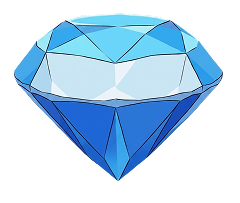
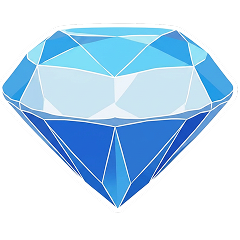
edited section header, and added user stats

Changed region(s): [[0.0, 0.0591, 0.9917, 0.8867], [0.5833, 0.7685, 0.6125, 0.798], [0.4958, 0.3842, 0.525, 0.4138]]

diff --git a/src/components/RightInfoBar/RightInfoBar.jsx b/src/components/RightInfoBar/RightInfoBar.jsx
@@ -2,6 +2,11 @@ import "./RightInfoBar.css";
 import {useEffect, useState} from "react";
 import {getUserInfo} from "../../services/userService.js";
 
+import userAvatar from "../../assets/avatars/default_avatar_male.png";
+import streakIcon from "../../assets/items/fire_streak.png";
+import heartIcon from "../../assets/items/heart.png";
+import diamondIcon from "../../assets/items/diamond.png";
+
 
 
 function RightInfoBar(){
@@ -22,14 +27,27 @@ function RightInfoBar(){
               <div className="user-brief-info-container">
                   {users.map((user) =>(
                       <div key={user.id}>
-                          <div className="test">
+
+                          <div className="user-brief-inner-info-container">
                           <div className="user-brief-profile">
-                          <img src={user.avatar} alt="user_avatar"/>
-                              <p>{user.display_name}</p>
+                          <img src={userAvatar} alt="user_avatar"/>
+                              <p className="body-text-light-sm">{user.display_name}</p>
                           </div>
                           <div className="user-brief-info">
-                              <p>Streak: {user.streak}</p>
-                              <p>Lives: {user.hearts}</p>
+                              <div className="user-stat">
+                                  <img src={streakIcon} alt="" className="user-stat-icon" />
+                                  <span className="body-text-light-sm">{user.streak}</span>
+                              </div>
+
+                              <div className="user-stat">
+                                  <img src={heartIcon} alt="" className="user-stat-icon" />
+                                  <span className="body-text-light-sm">{user.hearts}</span>
+                              </div>
+
+                              <div className="user-stat">
+                                  <img src={diamondIcon} alt="" className="user-stat-icon" />
+                                  <span className="body-text-light-sm">{user.diamonds}</span>
+                              </div>
                           </div>
                       </div>
                       </div>

diff --git a/src/components/RightInfoBar/RightInfoBar.css b/src/components/RightInfoBar/RightInfoBar.css
@@ -1,31 +1,91 @@
+
 .right-info-main{
     background: #131f24;
     height: 100vh;
-    border-left: 2px solid #868686;
 
 }
 
-.user-brief-info{
-    display: flex;
-    justify-content: space-evenly;
-    border: 1px solid red;
+.user-brief-info-container{
+
 }
 
 .user-brief-profile{
     display: flex;
     align-items: center;
+    margin-top: 2.5rem;
+    padding: 8px;
+    border-right: none;
+    border-top: 1px solid #49c0f8;
+    border-bottom: 1px solid #49c0f8;
+    border-left: 1px solid #49c0f8;
+    border-radius: 1rem 0 0 1rem;
+    box-shadow: 0 2px #49c0f8;
 }
+
+
 
 .user-brief-profile p{
     margin-left: 0.8rem;
+    padding: 6px;
+}
+
+.user-brief-profile p:hover{
+    background: #5f6874;
+    border-radius: 0.5rem;
+
+}
+
+.user-brief-info{
+    display: flex;
+    justify-content: center;
+    align-items: center;
+    margin-top: 2.5rem;
+    border-radius: 0 1rem 1rem 0;
+    padding: 0.5rem;
+    border-right: 1px solid #49c0f8;
+    border-top: 1px solid #49c0f8;
+    border-bottom: 1px solid #49c0f8;
+    border-left: none;
+    box-shadow: 1px 2px #49c0f8;
+
+
 }
 
 
-.user-brief-info-container{
+
+
+
+.user-brief-inner-info-container{
     display: flex;
-    border: 1px solid white;
+
+
 }
 
-.test{
+
+.user-brief-profile img {
+    width: 48px;
+    height: 48px;
+    border-radius: 50%;
+
+}
+
+.user-stat {
     display: flex;
+    align-items: center;
+    width: 4.8rem;
+}
+
+.user-stat:hover{
+    background: #5f6874;
+    border-radius: 0.5rem;
+}
+
+.user-stat-icon {
+    width: 32px;
+    height: 32px;
+    object-fit: contain;
+}
+
+.user-stat span{
+    margin-left: 0.5rem;
 }

diff --git a/src/pages/Learn/Learn.css b/src/pages/Learn/Learn.css
@@ -54,8 +54,36 @@
 }
 
 
-
 .right-info-bar-learn{
     width: 40%;
 }
+
+.unit-divider{
+    display: flex;
+    justify-content: center;
+    margin-top: 2rem;
+    gap: 0.5rem;
+}
+
+.unit-divider {
+    display: flex;
+    align-items: center;
+    width: 100%;
+    color: #5f6874;
+    font-size: 16px;
+    font-weight: 600;
+    margin-bottom: 2rem;
+}
+
+.unit-divider span{
+    color: rgb(224 235 241 / 0.29);
+}
+.unit-divider::before,
+.unit-divider::after {
+    content: "";
+    flex: 1;
+    height: 2px;
+    background-color: rgb(224 235 241 / 0.29);
+}
+
 

diff --git a/src/pages/Learn/Learn.jsx b/src/pages/Learn/Learn.jsx
@@ -42,12 +42,13 @@ function Learn(){
                             </div>
 
 
-                            
+
                             <div className="unit-guidebook body-text-light-sm"><NotebookText size={24}/>GUIDEBOOK</div>
                         </div>
 
-
-                        <p>----END OF LESSON----- ?</p>
+                        <div className="unit-divider">
+                        <span className="body-text-dark-md">{unit.unit_message}</span>
+                        </div>
                     </div>
 
 
